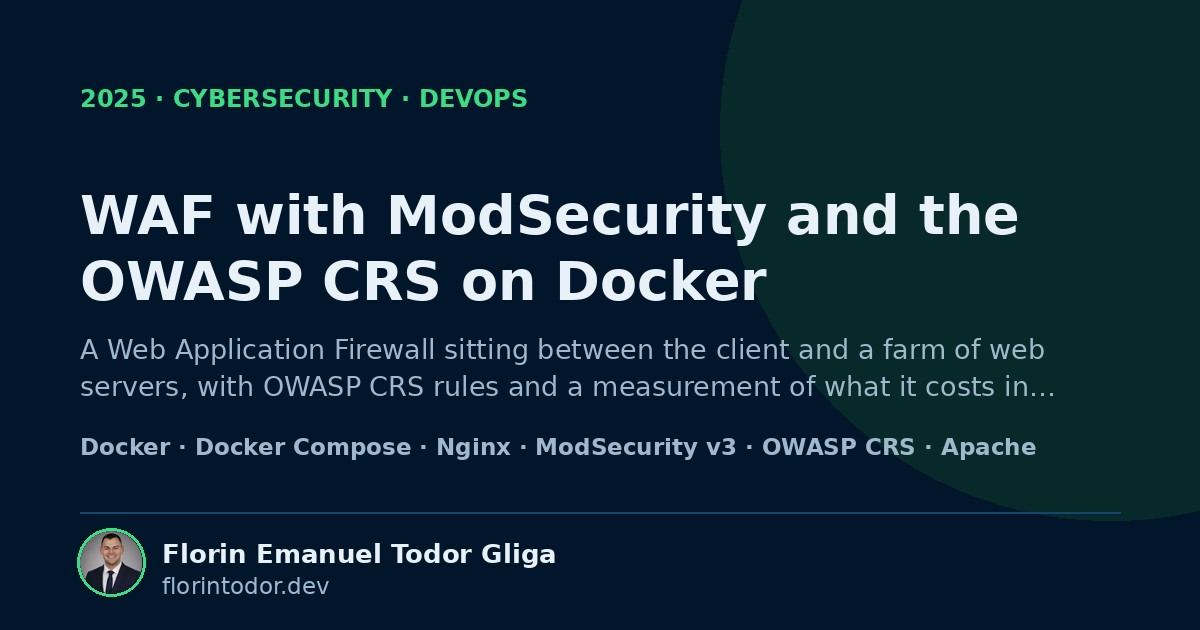
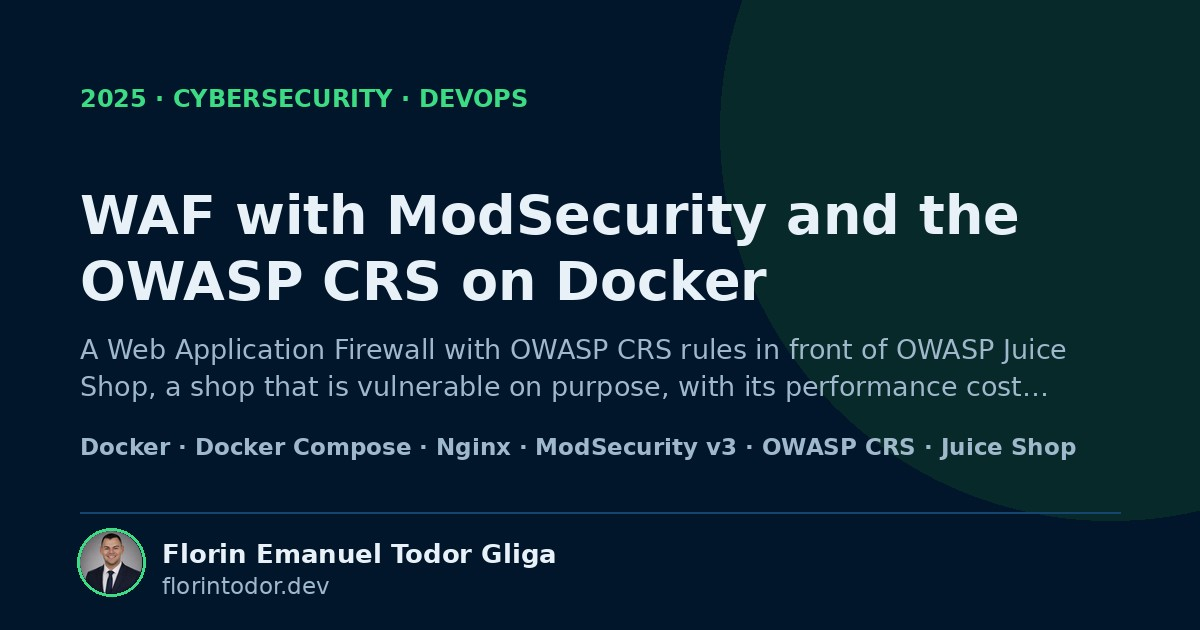
Artículo nuevo: cuánto cuesta de verdad el WAF
Repetida la medición del WAF separando el proxy, ModSecurity y la
configuración, contra la búsqueda de Juice Shop y contra un fichero
estático. El resultado cambia la ficha: la cifra vieja (2.586 → 1.663)
mezclaba las tres cosas, y ahora pone lo medido (-27 % en paranoia 4,
-18 % en paranoia 1).

La ficha decía además «1 WAF + 2 backends Apache», que sólo estaba en el
README: en ninguno de los commits del repo hay Apache, el WAF protege a
Juice Shop.

Changed region(s): [[0.0617, 0.573, 0.8633, 0.6333], [0.37, 0.5127, 0.8942, 0.573], [0.7708, 0.6937, 0.8942, 0.7238]]

diff --git a/src/content/blog/cuanto-cuesta-un-waf.md b/src/content/blog/cuanto-cuesta-un-waf.md
@@ -1,0 +1,193 @@
+---
+titulo: "Cuánto cuesta poner ModSecurity delante de una aplicación"
+tituloSeo: "Cuánto cuesta un WAF con ModSecurity, medido"
+descripcion: "Medí el rendimiento de una aplicación con y sin WAF (ModSecurity y OWASP CRS) en cuatro escenarios. Qué parte del coste es el WAF, qué parte es la configuración y qué pasa con un falso positivo en paranoia 4."
+fecha: 2026-09-23
+etiquetas: ["ModSecurity", "OWASP CRS", "Nginx", "Rendimiento", "Ciberseguridad"]
+minutos: 7
+---
+
+En la asignatura de Servidores Web de Altas Prestaciones monté un WAF: Nginx con
+ModSecurity y el OWASP Core Rule Set, delante de OWASP Juice Shop, que es una tienda
+hecha vulnerable a propósito. En la ficha del proyecto puse que el WAF bajaba el
+rendimiento de 2.586 a 1.663 peticiones por segundo, un 36 % menos.
+
+Esa cifra tiene un problema. Mezcla tres cosas: el coste de meter un proxy en medio, el
+coste de ModSecurity y el coste de cómo lo dejé configurado. Así que lo he vuelto a
+medir separando cada parte.
+
+## El montaje
+
+Todo corre en local con Docker, en un portátil con un Ryzen 9 5900HX:
+
+```text
+ab  →  Nginx 1.25.5 + ModSecurity 3.0.12 + CRS 3.3.5  →  Juice Shop 20.2.0
+```
+
+Mirando el historial del repositorio encontré algo que no recordaba. El primer commit
+tenía el CRS en paranoia 1 y el log de auditoría en `RelevantOnly`, que sólo guarda las
+peticiones sospechosas. Tres horas después, mientras hacía pruebas, lo cambié a esto:
+
+```apache
+setvar:tx.paranoia_level=4
+SecAuditEngine On # <--- CAMBIO: Forzar logging de TODO
+SecDebugLogLevel 3
+```
+
+Paranoia 4 es el nivel más estricto del CRS. `SecAuditEngine On` guarda en disco cada
+petición y cada respuesta. Lo puse para ver qué pasaba y así se quedó en el repositorio.
+Lo más probable es que la medición de la ficha se hiciera con esta configuración.
+
+Para esta prueba he medido cuatro escenarios:
+
+| | Escenario |
+|---|---|
+| a | Juice Shop directo, sin nada delante |
+| b | Nginx haciendo de proxy, con `modsecurity off` |
+| c | El WAF tal como está en el repositorio (paranoia 4, auditoría de todo) |
+| d | El WAF en paranoia 1 y auditoría `RelevantOnly` |
+
+Cada escenario son 5.000 peticiones con 10 de concurrencia, tres rondas alternando los
+escenarios y un calentamiento de 500 peticiones antes de cada medida.
+
+## Primero, que bloquee
+
+Antes de medir cuánto cuesta hay que comprobar que hace algo. Estos son los códigos que
+devuelve el WAF a varios ataques, con las reglas del CRS que saltan en cada nivel:
+
+| Petición | Directo | WAF | Reglas en paranoia 1 |
+|---|---|---|---|
+| `q=apple'))--` (SQLi) | 200 | 403 | 942100 |
+| `q=' OR 1=1--` (SQLi) | 500 | 403 | 942100 |
+| `q=<script>alert(1)</script>` | 200 | 403 | 941100, 941110, 941160 |
+| `q=<iframe src="javascript:...">` | 200 | 403 | 941100, 941140, 941160, 941170, 941210 |
+| `q=../../../etc/passwd` | 200 | 403 | 930100, 930110, 930120, 932160 |
+| `q=a;cat /etc/passwd` | 200 | 403 | 930120, 932100, 932160 |
+
+El 500 de la segunda fila lo devuelve Juice Shop, que se rompe con la comilla. En
+paranoia 4 saltan bastantes reglas más en cada ataque, pero el resultado es el mismo:
+todos acaban en 403. Con esta aplicación, paranoia 1 ya para todo lo que he probado.
+
+## La primera medición no enseñaba nada
+
+Empecé midiendo contra el buscador de productos, `/rest/products/search?q=apple`:
+
+```console
+$ ab -n 5000 -c 10 'http://127.0.0.1:3001/rest/products/search?q=apple'
+Complete requests:      5000
+Failed requests:        0
+Requests per second:    113.82 [#/sec] (mean)
+Time per request:       87.855 [ms] (mean)
+```
+
+Unas 100 peticiones por segundo sin nada delante. Con el WAF, lo mismo:
+
+| Escenario | Rondas (req/s) | Mediana |
+|---|---|---|
+| a. Directo | 91,7 · 113,8 · 105,7 | 106 |
+| b. Proxy | 101,8 · 113,2 · 113,2 | 113 |
+| c. Repo (PL4) | 101,4 · 100,6 · 82,9 | 101 |
+| d. PL1 | 99,0 · 102,4 · 93,0 | 99 |
+
+El proxy sale por encima del directo, así que las diferencias son ruido. Juice Shop tarda
+unos 90 ms en resolver esa búsqueda y el WAF añade uno o dos, que se pierden ahí. Para ver
+lo que cuesta el WAF hacía falta un backend que contestara rápido.
+
+## Contra un fichero estático
+
+Repetí las tres rondas contra `/assets/public/favicon_js.ico`, un icono de 15 KB que Juice
+Shop sirve sin tocar la base de datos:
+
+```console
+$ ab -n 5000 -c 10 -H 'Host: localhost' 'http://127.0.0.1:8080/assets/public/favicon_js.ico'
+```
+
+| Escenario | Rondas (req/s) | Mediana | ms por petición |
+|---|---|---|---|
+| a. Directo | 3.145 · 3.366 · 3.899 | 3.366 | 2,97 |
+| b. Proxy | 2.485 · 3.388 · 3.660 | 3.388 | 2,95 |
+| c. Repo (PL4) | 1.875 · 2.480 · 2.482 | 2.480 | 4,03 |
+| d. PL1 | 2.794 · 2.775 · 2.791 | 2.791 | 3,58 |
+
+La primera ronda sale más baja en casi todos. Lo tomo como calentamiento del sistema y me
+quedo con la mediana.
+
+Nginx como proxy no cuesta nada que se pueda medir aquí. El WAF tal como lo dejé baja de
+3.388 a 2.480 peticiones por segundo, un 27 % menos, y añade 1,1 ms a cada petición. En
+paranoia 1 y auditando sólo lo sospechoso, la bajada se queda en un 18 % y 0,6 ms.
+
+El escenario d cambia dos cosas a la vez, el nivel de paranoia y la auditoría, así que con
+estos datos no puedo repartir la diferencia entre las dos. Lo que sí sé es que el log de
+debug no ha influido: `debug.log` se ha quedado vacío en todas las pruebas, a pesar del
+nivel 3.
+
+## El log de auditoría
+
+Con `SecAuditEngine On` cada petición se escribe entera en `audit.log`. Después de cada
+tanda de 5.000 peticiones:
+
+| Ruta | Tamaño del log | Por petición |
+|---|---|---|
+| Búsqueda | 7,6 MB | 1,5 KB |
+| Icono | 4,4 MB | 884 B |
+
+En ninguno de los dos casos se guarda el cuerpo de la respuesta, porque la configuración
+sólo lo hace con HTML, XML y texto plano. La búsqueda ocupa más porque cada entrada lleva
+además un aviso de una regla, que explico abajo.
+
+Al ritmo que aguanta el WAF con el icono son unos 2 MB por segundo, cerca de 900 MB por
+cada millón de peticiones. En producción habría que rotar ese fichero o dejar la auditoría
+en `RelevantOnly`.
+
+Aquí me llevé una sorpresa. En la primera tanda, el escenario d también escribió 7,6 MB,
+como si auditara todo. El motivo:
+
+```text
+[id "920350"] [msg "Host header is a numeric IP address"] [data "127.0.0.1:8080"]
+```
+
+Le estaba pegando a `127.0.0.1`, y el CRS marca como sospechosa cualquier petición cuyo
+`Host` sea una IP. No la bloquea, porque sólo suma 3 puntos de los 5 que hacen falta,
+pero `RelevantOnly` la guarda. Por eso en la tanda del icono mandé `Host: localhost` en
+los cuatro escenarios. Con eso el log de d se quedó a cero. Un navegador manda el nombre
+del dominio, así que en uso normal esto no pasaría.
+
+## Un falso positivo en paranoia 4
+
+Probando peticiones normales apareció esto:
+
+```console
+$ curl -s -o /dev/null -w '%{http_code}\n' 'http://localhost:8080/rest/products/search?q=apple%20juice'
+403
+```
+
+Buscar «apple juice» en una tienda de zumos devuelve 403. La regla es la 920273:
+
+```text
+[id "920273"] [msg "Invalid character in request (outside of very strict set)"]
+Inbound Anomaly Score Exceeded (Total Score: 5)
+```
+
+En paranoia 4 el CRS sólo acepta un juego de caracteres muy reducido, y el espacio no
+entra. En paranoia 1 la misma búsqueda devuelve 200. Es el tipo de regla que en paranoia
+4 obliga a escribir exclusiones para cada campo de texto libre de la aplicación.
+
+## Lo que saco de esto
+
+La cifra de la ficha mezclaba el WAF con una configuración de pruebas. Con la
+configuración por defecto el coste baja bastante, y ya bloquea los ataques que he probado.
+
+Para medir el coste de un WAF conviene un backend rápido, porque con uno lento se pierde
+en el ruido. Eso también quiere decir que, con un backend de 90 ms por petición, el usuario
+no va a notar 1 ms más.
+
+Y paranoia 4 tiene un precio que no sale en `ab`. Bloquea búsquedas legítimas y hay que
+mantener una lista de exclusiones. Para una aplicación como esta me quedaría en paranoia
+1 y subiría de nivel sólo en las rutas que lo justifiquen.
+
+---
+
+*El proyecto está en [WAF con ModSecurity y OWASP CRS sobre
+Docker](/proyectos/waf-modsecurity/). La medición original de la ficha (2.586 → 1.663
+req/s) no guardé contra qué ruta ni con qué parámetros se hizo, así que sus números no se
+pueden comparar directamente con los de aquí.*

diff --git a/src/content/blog/en/cuanto-cuesta-un-waf.md b/src/content/blog/en/cuanto-cuesta-un-waf.md
@@ -1,0 +1,193 @@
+---
+titulo: "What it costs to put ModSecurity in front of an application"
+tituloSeo: "What a ModSecurity WAF costs, measured"
+descripcion: "I measured an application with and without a WAF (ModSecurity and the OWASP CRS) in four scenarios. How much of the cost is the WAF, how much is the configuration, and a false positive at paranoia level 4."
+fecha: 2026-09-23
+etiquetas: ["ModSecurity", "OWASP CRS", "Nginx", "Performance", "Cybersecurity"]
+minutos: 7
+---
+
+For the High Performance Web Servers course I set up a WAF: Nginx with ModSecurity and
+the OWASP Core Rule Set, in front of OWASP Juice Shop, a shop that is vulnerable on
+purpose. On the project page I wrote that the WAF brought throughput down from 2,586 to
+1,663 requests per second, 36 % less.
+
+That figure has a problem. It mixes three things: the cost of putting a proxy in the
+middle, the cost of ModSecurity and the cost of how I left it configured. So I measured it
+again, separating each part.
+
+## The setup
+
+Everything runs locally with Docker, on a laptop with a Ryzen 9 5900HX:
+
+```text
+ab  →  Nginx 1.25.5 + ModSecurity 3.0.12 + CRS 3.3.5  →  Juice Shop 20.2.0
+```
+
+Going through the repository history I found something I had forgotten. The first commit
+had the CRS at paranoia level 1 and the audit log set to `RelevantOnly`, which only keeps
+suspicious requests. Three hours later, while testing, I changed it to this:
+
+```apache
+setvar:tx.paranoia_level=4
+SecAuditEngine On # <--- CAMBIO: Forzar logging de TODO
+SecDebugLogLevel 3
+```
+
+Paranoia level 4 is the strictest one in the CRS. `SecAuditEngine On` writes every request
+and every response to disk. I set it to see what was going on and it stayed like that in
+the repository. The measurement on the project page was most likely taken with this
+configuration.
+
+For this test I measured four scenarios:
+
+| | Scenario |
+|---|---|
+| a | Juice Shop directly, nothing in front |
+| b | Nginx as a proxy, with `modsecurity off` |
+| c | The WAF as it is in the repository (paranoia 4, audit everything) |
+| d | The WAF at paranoia 1 with `RelevantOnly` auditing |
+
+Each scenario is 5,000 requests at a concurrency of 10, three rounds alternating the
+scenarios, and a 500-request warm-up before each measurement.
+
+## First, check that it blocks
+
+Before measuring what it costs you have to check that it does something. These are the
+status codes the WAF returns for several attacks, with the CRS rules that fire:
+
+| Request | Direct | WAF | Rules at paranoia 1 |
+|---|---|---|---|
+| `q=apple'))--` (SQLi) | 200 | 403 | 942100 |
+| `q=' OR 1=1--` (SQLi) | 500 | 403 | 942100 |
+| `q=<script>alert(1)</script>` | 200 | 403 | 941100, 941110, 941160 |
+| `q=<iframe src="javascript:...">` | 200 | 403 | 941100, 941140, 941160, 941170, 941210 |
+| `q=../../../etc/passwd` | 200 | 403 | 930100, 930110, 930120, 932160 |
+| `q=a;cat /etc/passwd` | 200 | 403 | 930120, 932100, 932160 |
+
+The 500 in the second row comes from Juice Shop, which breaks on the quote. At paranoia 4
+quite a few more rules fire on each attack, but the outcome is the same: they all end in
+403. With this application, paranoia 1 already stops everything I tried.
+
+## The first measurement showed nothing
+
+I started with the product search, `/rest/products/search?q=apple`:
+
+```console
+$ ab -n 5000 -c 10 'http://127.0.0.1:3001/rest/products/search?q=apple'
+Complete requests:      5000
+Failed requests:        0
+Requests per second:    113.82 [#/sec] (mean)
+Time per request:       87.855 [ms] (mean)
+```
+
+About 100 requests per second with nothing in front. With the WAF, the same:
+
+| Scenario | Rounds (req/s) | Median |
+|---|---|---|
+| a. Direct | 91.7 · 113.8 · 105.7 | 106 |
+| b. Proxy | 101.8 · 113.2 · 113.2 | 113 |
+| c. Repo (PL4) | 101.4 · 100.6 · 82.9 | 101 |
+| d. PL1 | 99.0 · 102.4 · 93.0 | 99 |
+
+The proxy comes out ahead of the direct run, so the differences are noise. Juice Shop
+takes about 90 ms to answer that search and the WAF adds one or two, which get lost in
+there. To see what the WAF costs I needed a backend that answers fast.
+
+## Against a static file
+
+I repeated the three rounds against `/assets/public/favicon_js.ico`, a 15 KB icon that
+Juice Shop serves without touching the database:
+
+```console
+$ ab -n 5000 -c 10 -H 'Host: localhost' 'http://127.0.0.1:8080/assets/public/favicon_js.ico'
+```
+
+| Scenario | Rounds (req/s) | Median | ms per request |
+|---|---|---|---|
+| a. Direct | 3,145 · 3,366 · 3,899 | 3,366 | 2.97 |
+| b. Proxy | 2,485 · 3,388 · 3,660 | 3,388 | 2.95 |
+| c. Repo (PL4) | 1,875 · 2,480 · 2,482 | 2,480 | 4.03 |
+| d. PL1 | 2,794 · 2,775 · 2,791 | 2,791 | 3.58 |
+
+The first round is lower in almost every scenario. I take it as the system warming up and
+go with the median.
+
+Nginx as a proxy costs nothing measurable here. The WAF as I left it goes from 3,388 to
+2,480 requests per second, 27 % less, and adds 1.1 ms to each request. At paranoia 1,
+auditing only suspicious requests, the drop is 18 % and 0.6 ms.
+
+Scenario d changes two things at once, the paranoia level and the auditing, so with this
+data I can't split the difference between them. What I do know is that the debug log
+played no part: `debug.log` stayed empty through every test, despite level 3.
+
+## The audit log
+
+With `SecAuditEngine On` every request is written in full to `audit.log`. After each batch
+of 5,000 requests:
+
+| Path | Log size | Per request |
+|---|---|---|
+| Search | 7.6 MB | 1.5 KB |
+| Icon | 4.4 MB | 884 B |
+
+In neither case is the response body stored, because the configuration only does that
+for HTML, XML and plain text. The search takes more space because each entry also carries
+a warning from a rule, which I explain below.
+
+At the rate the WAF sustains with the icon that is about 2 MB per second, close to
+900 MB per million requests. In production that file would need rotating, or the auditing
+left at `RelevantOnly`.
+
+This is where I got a surprise. In the first batch, scenario d also wrote 7.6 MB, as if it
+were auditing everything. The reason:
+
+```text
+[id "920350"] [msg "Host header is a numeric IP address"] [data "127.0.0.1:8080"]
+```
+
+I was hitting `127.0.0.1`, and the CRS flags any request whose `Host` is an IP address.
+It doesn't block it, because that only adds 3 of the 5 points needed, but `RelevantOnly`
+keeps it. That's why in the icon batch I sent `Host: localhost` in all four scenarios. With
+that, the log for d stayed at zero. A browser sends the domain name, so in normal use this
+wouldn't happen.
+
+## A false positive at paranoia 4
+
+Trying normal requests, this turned up:
+
+```console
+$ curl -s -o /dev/null -w '%{http_code}\n' 'http://localhost:8080/rest/products/search?q=apple%20juice'
+403
+```
+
+Searching for "apple juice" in a juice shop returns 403. The rule is 920273:
+
+```text
+[id "920273"] [msg "Invalid character in request (outside of very strict set)"]
+Inbound Anomaly Score Exceeded (Total Score: 5)
+```
+
+At paranoia 4 the CRS only accepts a very small character set, and the space isn't in it.
+At paranoia 1 the same search returns 200. This is the kind of rule that, at paranoia 4,
+forces you to write exclusions for every free-text field in the application.
+
+## What I take from this
+
+The figure on the project page mixed the WAF with a testing configuration. With the
+default configuration the cost drops quite a bit, and it still blocks the attacks I tried.
+
+To measure what a WAF costs you want a fast backend, because with a slow one the cost gets
+lost in the noise. It also means that with a backend taking 90 ms per request, users won't
+notice 1 ms more.
+
+And paranoia 4 has a cost that `ab` doesn't show. It blocks legitimate searches and you
+have to maintain a list of exclusions. For an application like this one I would stay at
+paranoia 1 and raise the level only on the routes that justify it.
+
+---
+
+*The project is at [WAF with ModSecurity and the OWASP CRS on
+Docker](/en/proyectos/waf-modsecurity/). The original measurement on the project page
+(2,586 → 1,663 req/s): I didn't record which path or parameters it used, so its numbers
+can't be compared directly with the ones here.*
